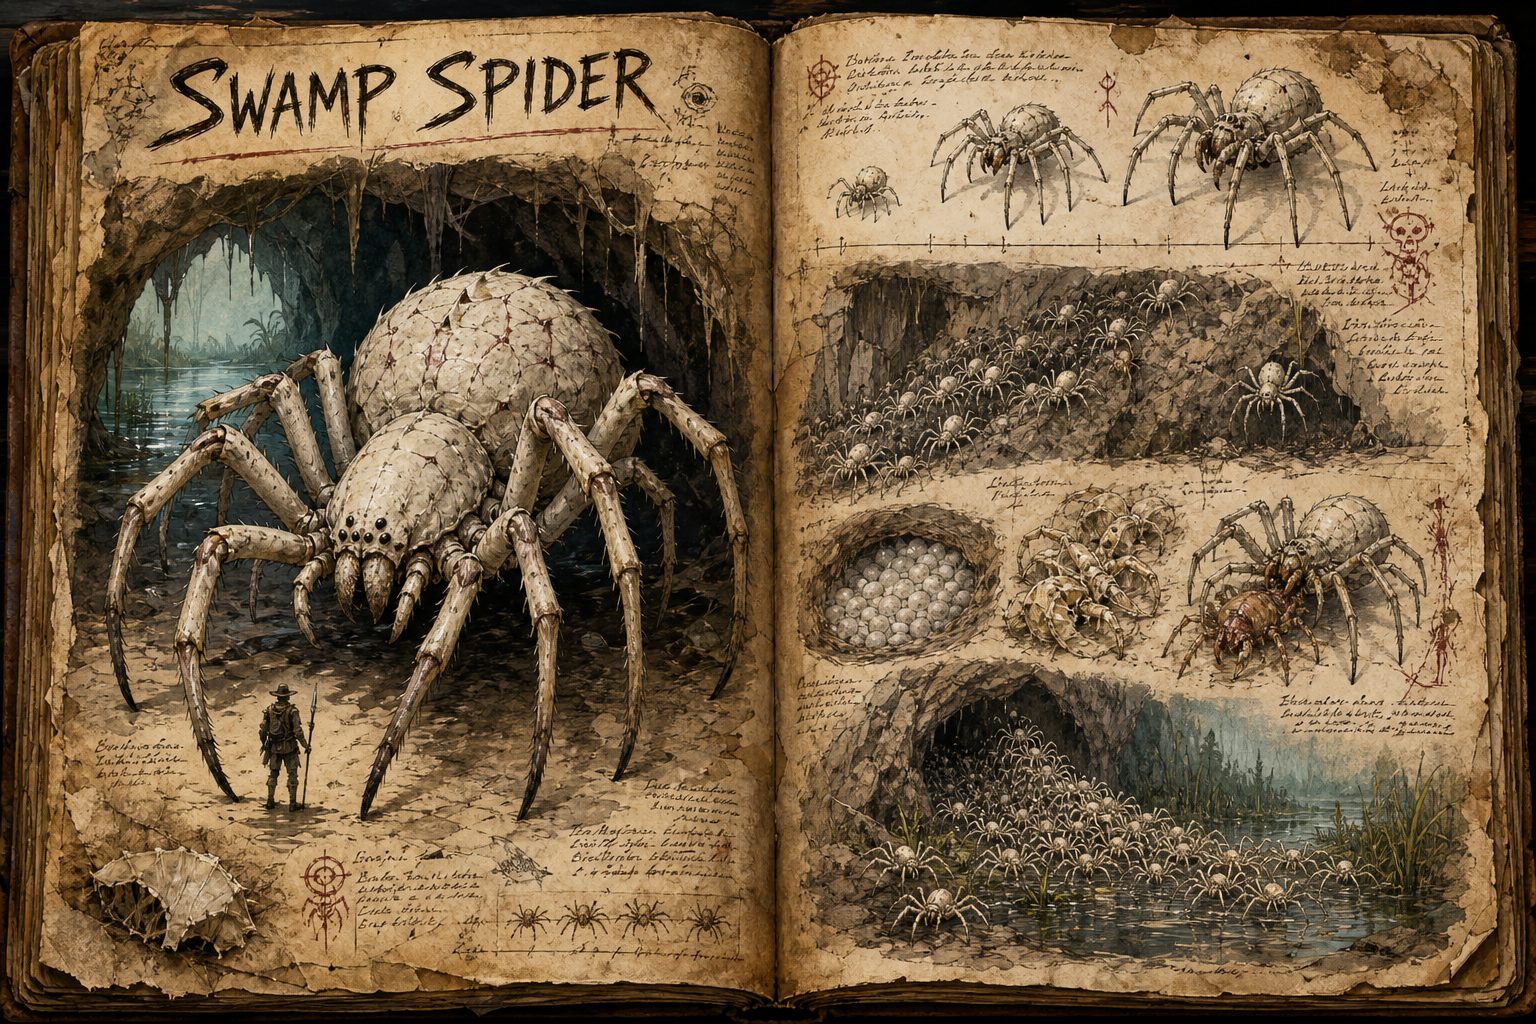
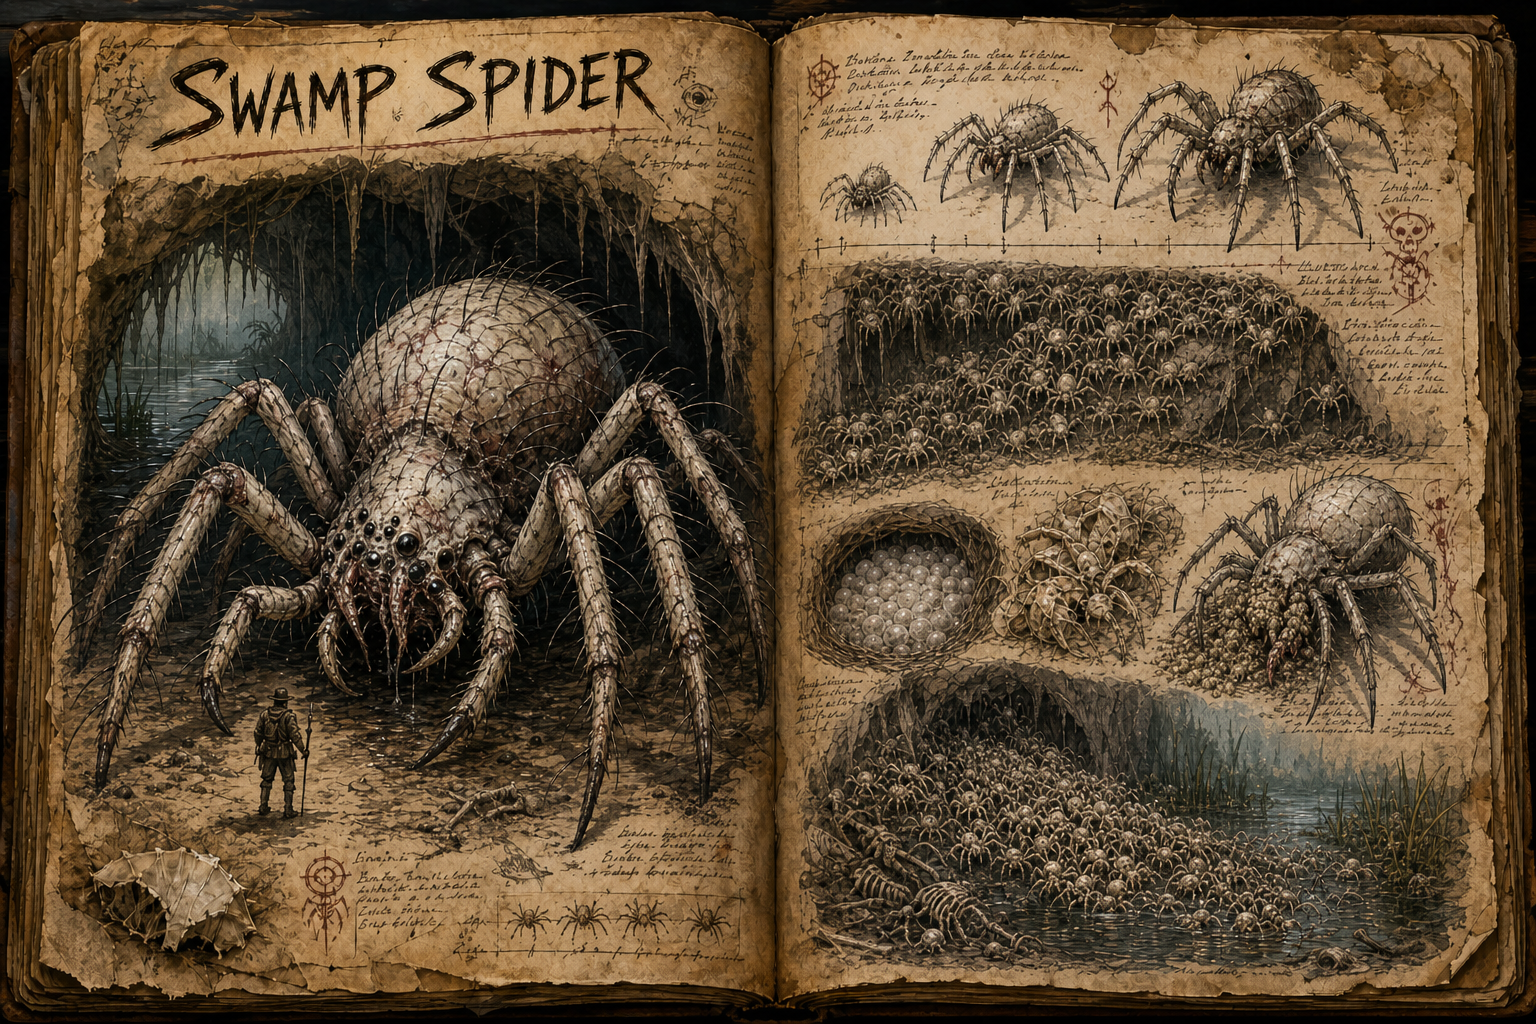
spider update

diff --git a/Creatures/Swamp-spider.md b/Creatures/Swamp-spider.md
@@ -4,9 +4,11 @@ The Swamp Spider is a pale cave predator whose danger lies in population rather 
 
 ## Appearance and Life Stages
 
-Young Swamp Spiders range from hand-sized hatchlings to waist-high juveniles. Their thin, bone-white shells and nearly colourless legs make them stark against dark mud but difficult to distinguish from pale cave growths when they crowd together underground. They move in restless layers across floors, walls, and ceilings, so a nursery chamber seems to ripple before the player can identify any one body.
+Young Swamp Spiders range from hand-sized hatchlings to waist-high juveniles. Their thin, bone-white shells and nearly colourless legs make them stark against dark mud but difficult to distinguish from pale cave growths when they crowd together underground. Sparse black sensory hairs break the smooth pallor of their bodies, each bristle long enough to bend and tremble in the cave air. They move in restless layers across floors, walls, and ceilings, so a nursery chamber seems to ripple before the player can identify any one body.
 
-A mature spider stands about as tall as a human, with a heavier abdomen, long ivory limbs, and a chalk-pale carapace scarred by bites from its own kind. Adults are far less common than juveniles. Each generation begins with clutches of hundreds of eggs, but starvation, predation, trampling, disease, and cannibalism kill most of the young before they reach full size. The few that survive become the durable centre of an infestation and produce the next wave.
+A mature spider stands about as tall as a human, with a swollen abdomen, long ivory limbs, and a chalk-pale carapace scarred by bites from its own kind. Its sparse hairs are not a coat but irregular, wet-looking needles along the joints, back, and mouthparts. They quiver before the spider moves, sensing breath and vibration, so prey may see the hairs turn toward them one by one while the body remains still. The underside is thin enough to show bruised shadows of organs and eggs beneath the shell. A cluster of mismatched glassy eyes sits above pale mouthplates that hinge apart around a dark, constantly working centre, giving the face a disturbingly unfinished appearance.
+
+Adults are far less common than juveniles. Mature females shelter fresh hatchlings in the folds beneath the abdomen, and a threatened female can spill a crawling sheet of young around her own feet. Each generation begins with clutches of hundreds of eggs, but starvation, predation, trampling, disease, and cannibalism kill most of the young before they reach full size. The few that survive become the durable centre of an infestation and produce the next wave.
 
 ## The Brood Cycle
 
